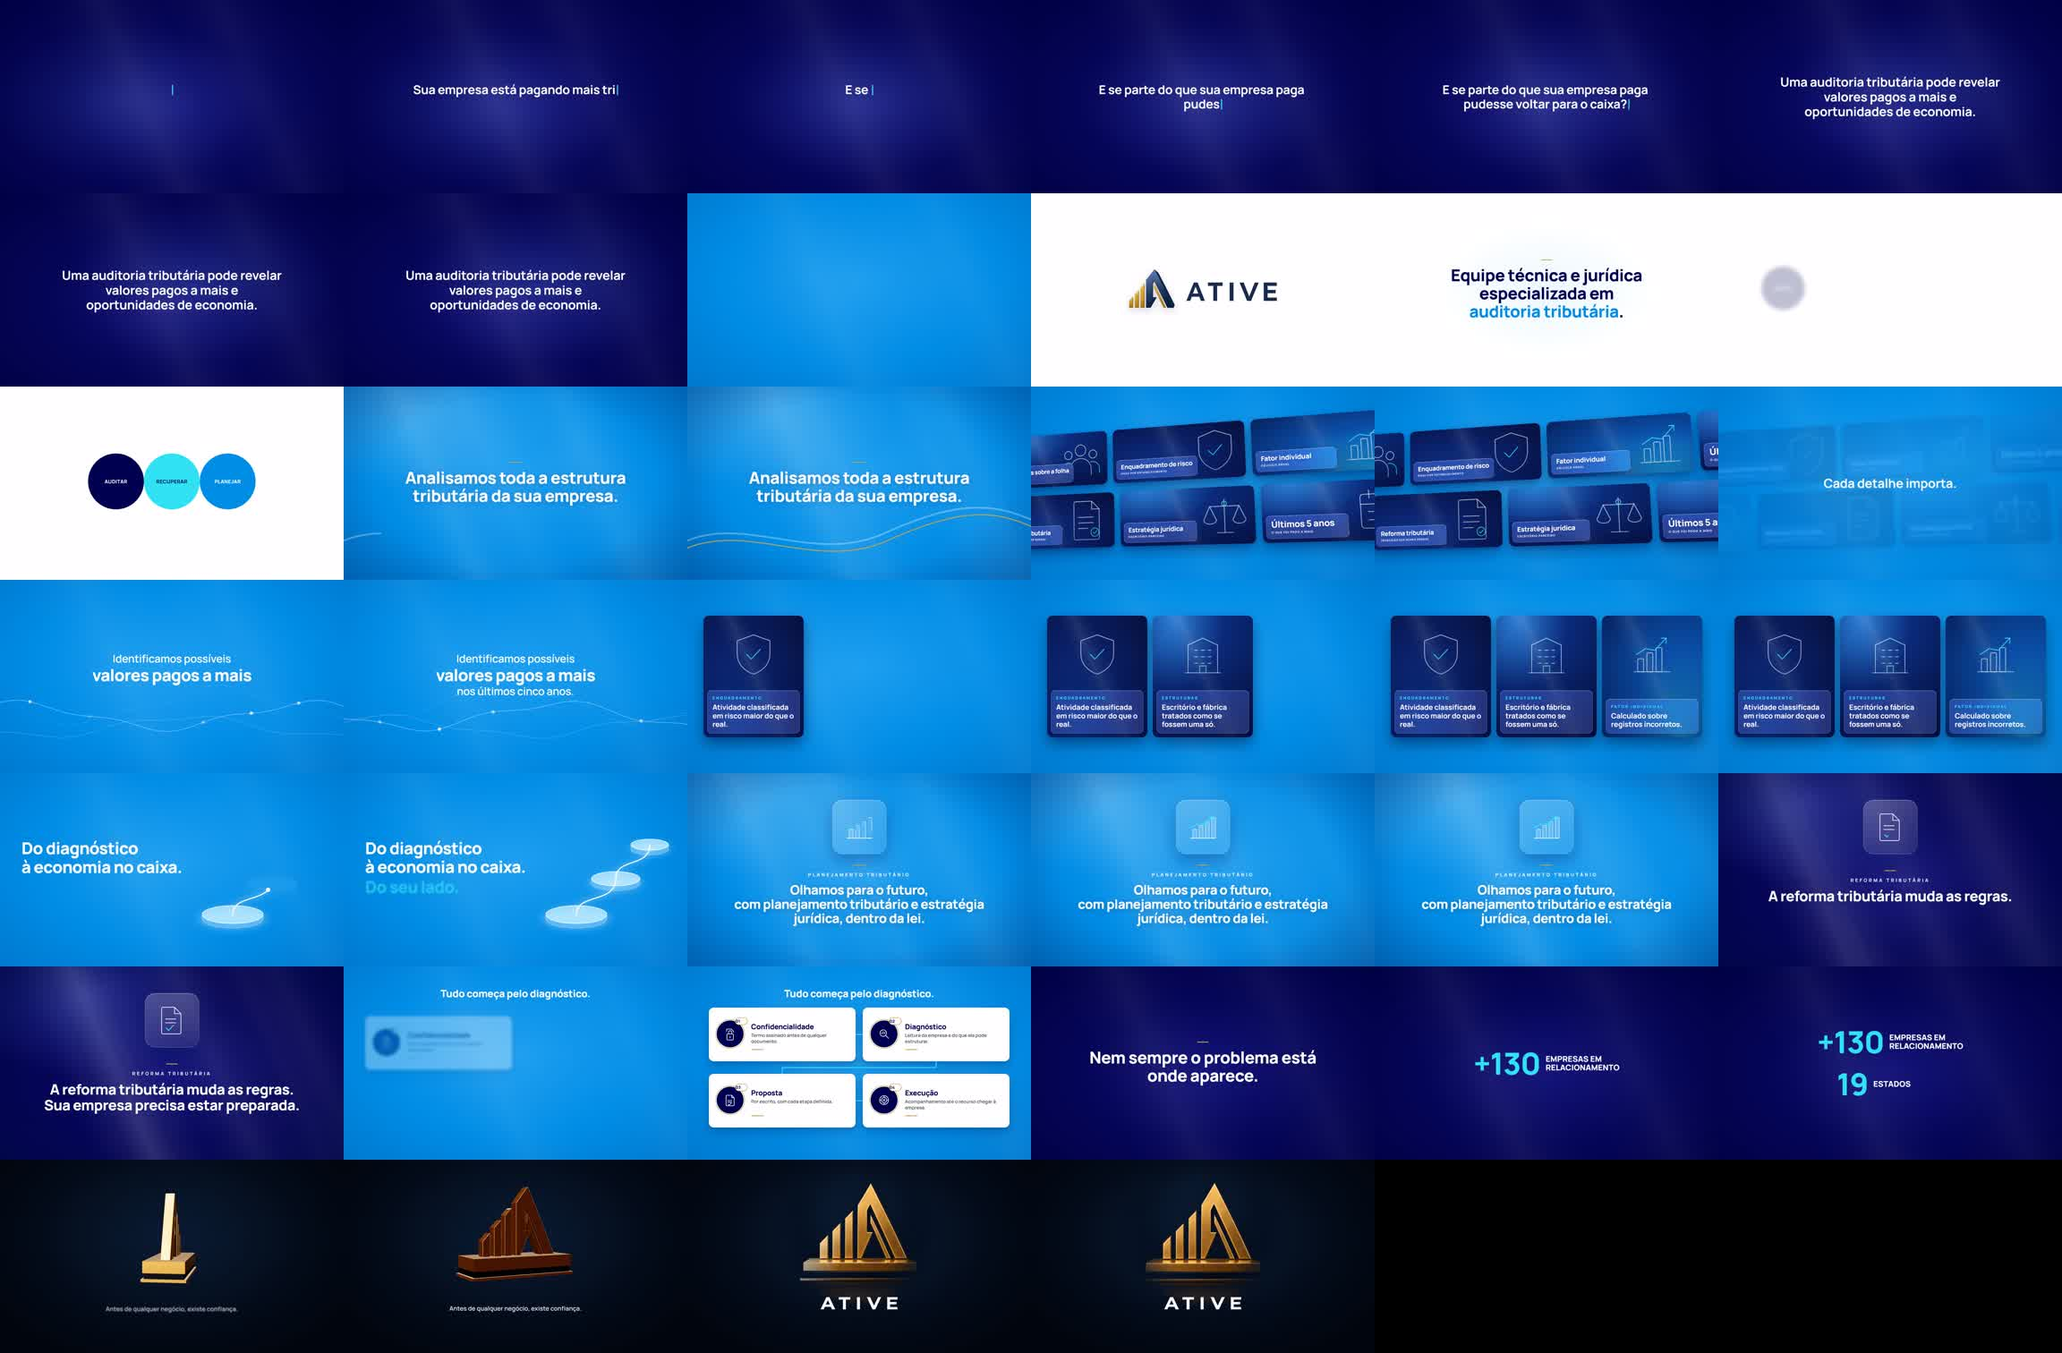
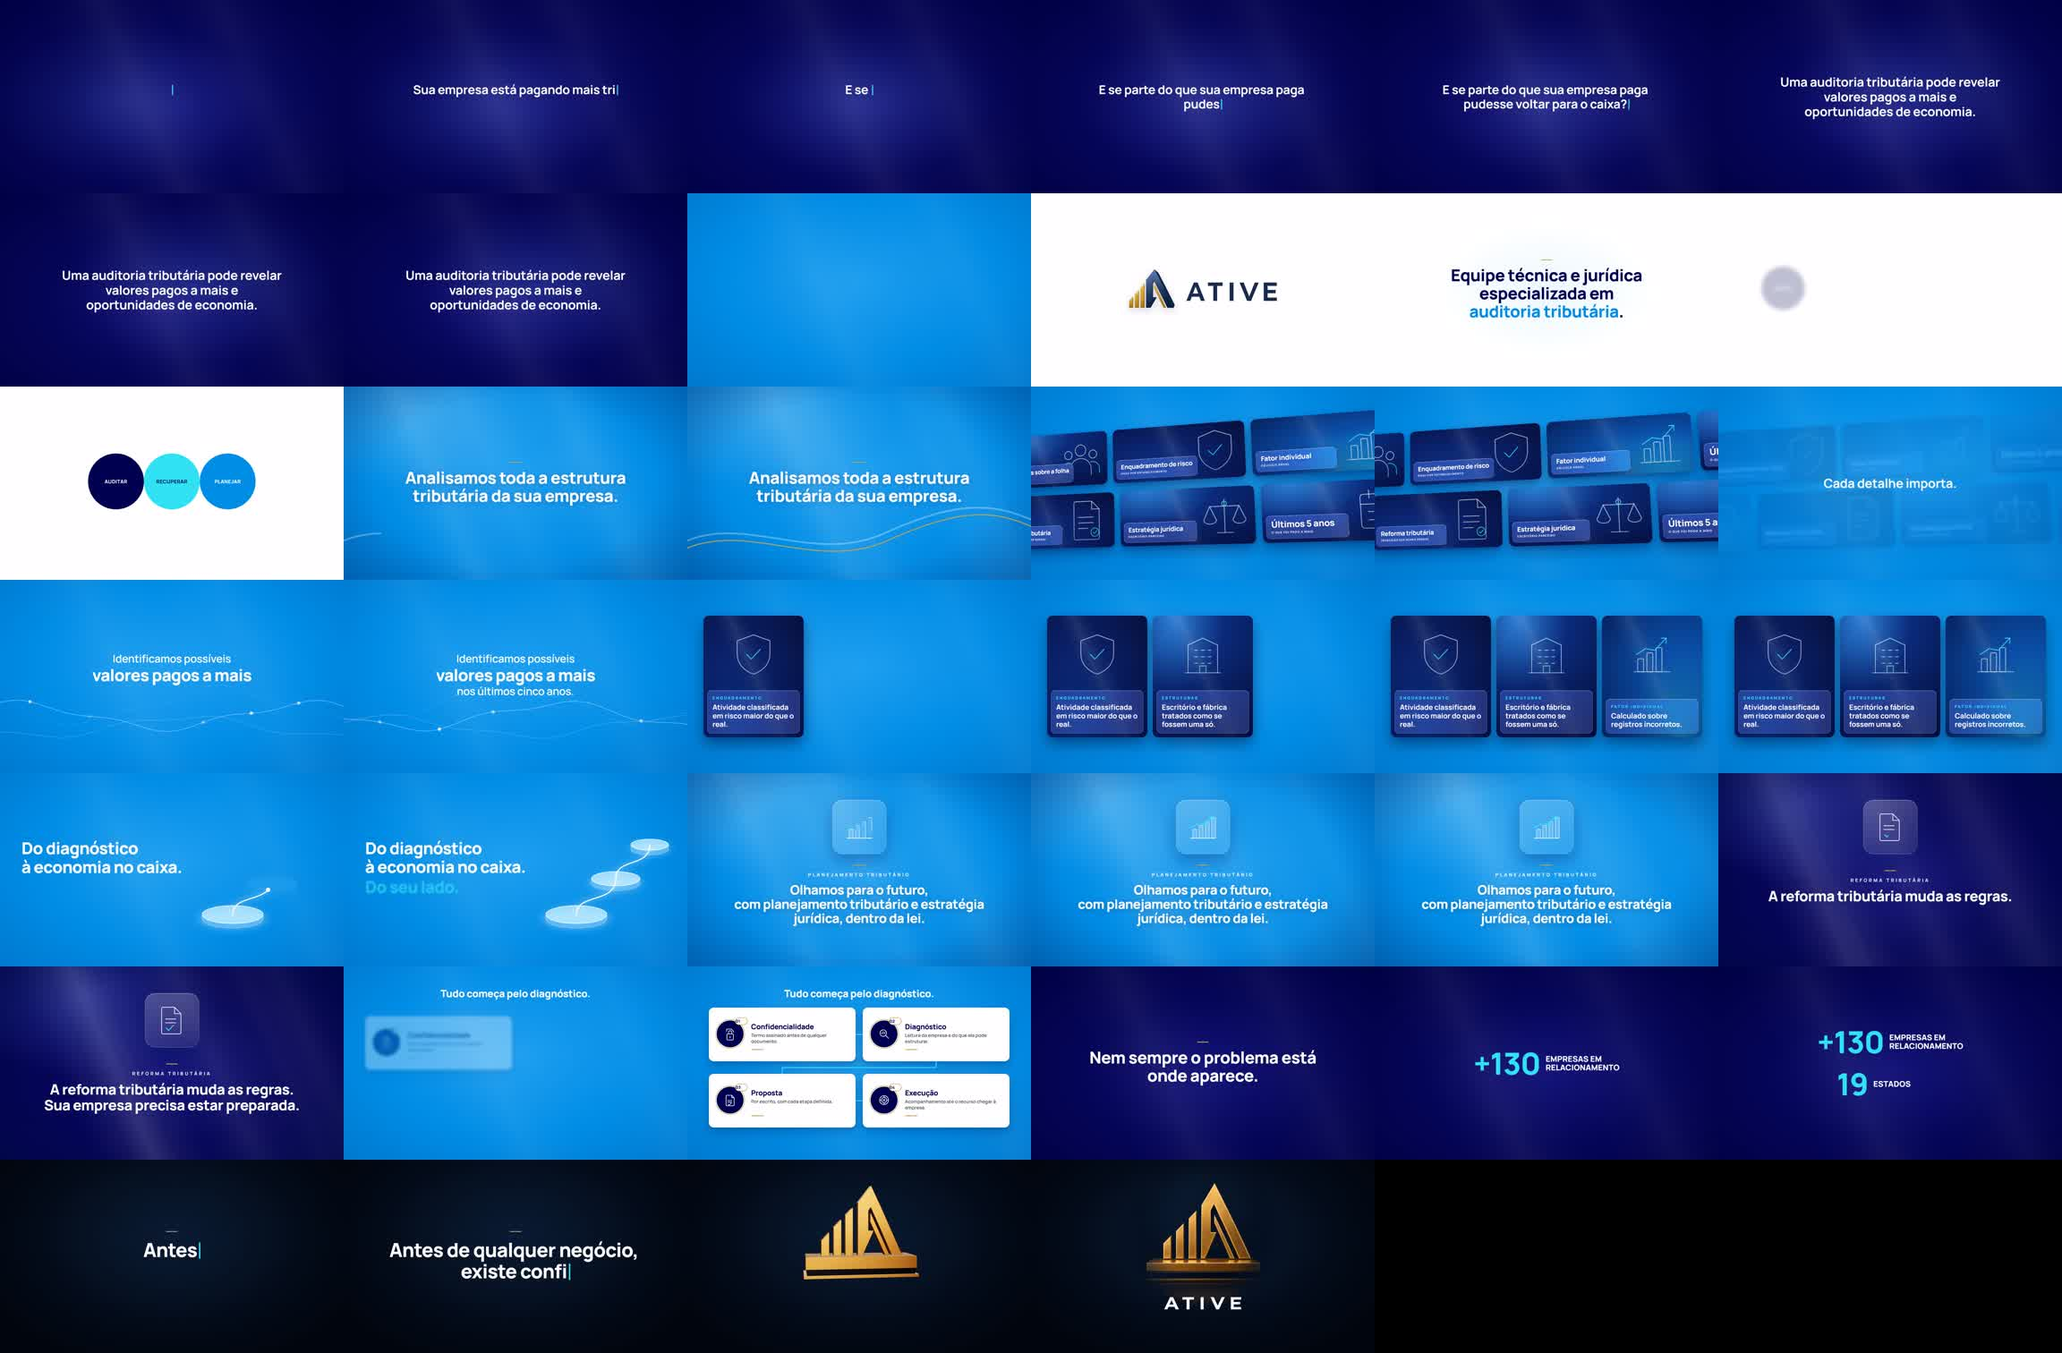
Vídeos v7c: frase de confiança vira tela digitada antes do símbolo (Tributário renderizado; Estruturação aguarda OK)
Pedido do Jonas (04/10 ~01h15): a frase pequena sob o logo no fechamento ficou feia; trazer a frase digitada numa
tela própria, como a assinatura da Apresentação v12, atrasar a entrada do símbolo para a fala "Ative." e só então
o ATIVE embaixo da pirâmide. Um vídeo por vez.

- trib_v7.html e v10.html: tela #fim2 (fio dourado + frase em 108 px digitada com a voz, cursor ciano), fimReal(T)
  em tempo real com os tempos do encerramento da v12; #endT desligado; final segura 4,0 s (retime.py fim=4.0).
- Tributário: render parcial do encerramento em uma sessão, emenda no quadro 2163 (fundo puro), 1:20,57, −20,3 LUFS.
- Estruturação: página pronta (2.115 quadros); render do encerramento depois do OK no Tributário.
- Registro v7 atualizado com a mecânica e as medições.

Changed region(s): [[0.1875, 0.8704, 0.3125, 0.9636], [0.375, 0.8704, 0.4375, 0.9636], [0.0625, 0.8704, 0.0938, 0.9636]]

diff --git a/videos/estruturacao-de-capital/fonte/video/v10.html b/videos/estruturacao-de-capital/fonte/video/v10.html
@@ -38,6 +38,9 @@ html,body{width:1920px;height:1080px;overflow:hidden;background:#000050;font-fam
 .num .lab{font-weight:800;font-size:44px;color:#fff;line-height:1.1;letter-spacing:.5px}
 /* v7 (03/10 noite): padrão da Apresentação v12 — sem zoom em texto, placa de vidro em PNG, feixes sem filter, parede e painéis desenhados, perguntas digitadas */
 .fio{width:64px;height:5px;border-radius:3px;background:#C9A24B;transform-origin:50% 50%}
+#fim2{z-index:60}
+.fimQ{color:#fff;font-weight:800;font-size:108px;line-height:1.1;letter-spacing:-2.2px;white-space:nowrap;text-align:center}
+.fimQ .cur{display:inline-block;width:8px;height:92px;margin-left:10px;vertical-align:-10px;border-radius:3px;background:#2FE1F2;opacity:0}
 .h2{font-weight:800;font-size:80px;line-height:1.1;letter-spacing:-1.5px;color:#fff;text-shadow:0 6px 40px rgba(0,20,80,.25);white-space:nowrap}
 .h3{font-weight:800;font-size:104px;line-height:1.1;letter-spacing:-1.5px;color:var(--navy);white-space:nowrap}
 .h3 b{font-weight:800;color:var(--blue)}
@@ -151,6 +154,7 @@ html,body{width:1920px;height:1080px;overflow:hidden;background:#000050;font-fam
 <img id="pfull" src="../assets/piramide_full.png" style="position:absolute;left:530px;top:-50px;width:860px;height:860px;opacity:0;-webkit-mask-image:radial-gradient(ellipse 50% 50% at 50% 50%,#000 62%,transparent 100%);mask-image:radial-gradient(ellipse 50% 50% at 50% 50%,#000 62%,transparent 100%)">
 <div id="shine" style="position:absolute;left:530px;top:-50px;width:860px;height:860px;opacity:0;mix-blend-mode:screen;-webkit-mask-image:url(../assets/piramide_mask.png);mask-image:url(../assets/piramide_mask.png);-webkit-mask-size:100% 100%;mask-size:100% 100%;background:linear-gradient(112deg,rgba(255,236,190,0) 42%,rgba(255,240,205,.85) 50%,rgba(255,236,190,0) 58%);background-size:320% 100%"></div>
 <img id="wmEnd" class="el" src="../crops/wordmark_branco_limpo.png" style="height:78px">
+<div id="fim2" class="el" style="text-align:center"><div class="fio" style="margin:0 auto 40px"></div><div class="fimQ"><span id="fmL1"></span><span class="cur" id="fmC1"></span><br><span id="fmL2"></span><span class="cur" id="fmC2"></span></div></div>
 <div id="endT" class="el t" style="font-size:34px;font-weight:600;letter-spacing:.3px;color:rgba(255,255,255,.88)">Toda parceria começa com confiança.</div>
 <div id="legal" class="legal">Operações conduzidas pela rede de parceria da Ative e divulgadas com autorização. Não constitui oferta de crédito nem promessa de resultado.</div>
 
@@ -198,6 +202,22 @@ html,body{width:1920px;height:1080px;overflow:hidden;background:#000050;font-fam
   const k1=Math.min(k,L1.length),k2=Math.max(0,k-L1.length);$(q.id+'a').textContent=L1.slice(0,k1);$(q.id+'b').textContent=L2.slice(0,k2);
   const blink=(Math.floor(T/.4)%2?0:1);
   $(q.id+'c1').style.opacity=k<L1.length?(T<q.a?blink:1):0;$(q.id+'c2').style.opacity=k>=L1.length?(k<n?1:blink):0;});}
+ // v7c (04/10, pedido do Jonas): a frase de confiança vira tela própria, digitada com a voz; no "Ative." o símbolo gira e o
+ // ATIVE entra embaixo da pirâmide, com os tempos do encerramento da Apresentação v12. A frase pequena sob o logo sai.
+ const FL1='Toda parceria',FL2='começa com confiança.',FA=R(16),FB=R(17),FIM=R(18)+4.0;
+ function fimReal(T){const e=$('fim2'),a0=FA+.1,ta=FA+.25,cut=EIO(P(T,FB-.3,FB));
+  if(T<a0||cut>=1){e.style.opacity=0;}else{const ent=E(P(T,a0,a0+.35));e.style.opacity=ent*(1-cut);e.style.filter=`blur(${((1-ent)*10+cut*10).toFixed(2)}px)`;e.style.transform='translate(-50%,-50%)';
+   const n=FL1.length+FL2.length,sp=Math.min(.06,(FB-.5-ta)/n),tx=ta+n*sp,k=T<ta?0:Math.min(n,Math.floor(n*P(T,ta,tx)+1e-6)),k1=Math.min(k,FL1.length),k2=Math.max(0,k-FL1.length);
+   $('fmL1').textContent=FL1.slice(0,k1);$('fmL2').textContent=FL2.slice(0,k2);
+   const blink=k<n?1:(Math.floor((T-tx)/.45)%2?0:1);$('fmC1').style.opacity=k<FL1.length?1:0;$('fmC2').style.opacity=k>=FL1.length?blink:0;}
+  const P0=FB-.2,gl=$('gl'),pf=$('pfull'),sh=$('shine'),wm=$('wmEnd');$('endT').style.opacity=0;
+  if(T<P0){gl.style.opacity=0;pf.style.opacity=0;sh.style.opacity=0;wm.style.opacity=0;return;}
+  const sp=E(P(T,P0,P0+1.8)),fin=E(P(T,P0,P0+.45)),xf=EIO(P(T,P0+1.6,P0+2.15)),push=1+.05*P(T,P0+1.6,FIM);
+  gl.style.opacity=fin*(1-xf);gl.style.filter=`blur(${(1-fin)*12}px)`;
+  pf.style.opacity=xf;pf.style.transform=`scale(${push})`;pf.style.transformOrigin='50% 45%';
+  const s1=(T>P0+2.1&&T<P0+3.05)?Math.sin(Math.PI*P(T,P0+2.1,P0+3.05))*.9:0;sh.style.opacity=s1;sh.style.backgroundPosition=`${100-100*P(T,P0+2.1,P0+3.05)}% 0`;sh.style.transform=`scale(${push})`;sh.style.transformOrigin='50% 45%';
+  if(T<P0+2.3)window.render3d&&window.render3d((1-sp)*3*Math.PI*2,(.62+.38*sp),T);
+  const w=E(P(T,P0+2.15,P0+3.15));wm.style.opacity=w;wm.style.filter=`blur(${(1-w)*16}px)`;wm.style.transform=`translate(-50%,-50%) translateY(${262+(1-w)*24}px)`;}
  window.renderReal=function(T){
   perguntas(T);
   // 7 "Porque as possibilidades vão além do seu banco." e 9 "O caminho começa pela sua empresa." (azul, prancha P5): luz + feixes + vinheta; a fita só na primeira
@@ -207,6 +227,7 @@ html,body{width:1920px;height:1080px;overflow:hidden;background:#000050;font-fam
   // cenas da v6 (tempos calculados com D=0,3): quatro passos (fala 6) e degraus (fala 11)
   V.passos('wA',T-DS,20.0,26.65,[20.4,21.3,22.6,24.1]);
   V.degraus('wB',T-DS,41.85,46.6,[42.1,42.7,45.0]);
+  fimReal(T);
  };})();
 </script>
 </div>

diff --git a/videos/tributario/trib_v7.html b/videos/tributario/trib_v7.html
@@ -46,6 +46,9 @@ html,body{width:1920px;height:1080px;overflow:hidden;background:#000050;font-fam
 .tp .d{margin-top:12px;font-weight:700;font-size:40px;line-height:1.18;color:#fff}
 /* v7 (03/10 noite): padrão da Apresentação v12 — sem zoom em texto, placa de vidro em PNG, feixes sem filter, parede e painéis desenhados, perguntas digitadas */
 .fio{width:64px;height:5px;border-radius:3px;background:#C9A24B;transform-origin:50% 50%}
+#fim2{z-index:60}
+.fimQ{color:#fff;font-weight:800;font-size:108px;line-height:1.1;letter-spacing:-2.2px;white-space:nowrap;text-align:center}
+.fimQ .cur{display:inline-block;width:8px;height:92px;margin-left:10px;vertical-align:-10px;border-radius:3px;background:#2FE1F2;opacity:0}
 .h2{font-weight:800;font-size:80px;line-height:1.1;letter-spacing:-1.5px;color:#fff;text-shadow:0 6px 40px rgba(0,20,80,.25);white-space:nowrap}
 .h3{font-weight:800;font-size:104px;line-height:1.1;letter-spacing:-1.5px;color:var(--navy);white-space:nowrap}
 .h3 b{font-weight:800;color:var(--blue)}
@@ -133,6 +136,7 @@ html,body{width:1920px;height:1080px;overflow:hidden;background:#000050;font-fam
 <img id="pfull" src="../assets/piramide_full.png" style="position:absolute;left:530px;top:-50px;width:860px;height:860px;opacity:0;-webkit-mask-image:radial-gradient(ellipse 50% 50% at 50% 50%,#000 62%,transparent 100%);mask-image:radial-gradient(ellipse 50% 50% at 50% 50%,#000 62%,transparent 100%)">
 <div id="shine" style="position:absolute;left:530px;top:-50px;width:860px;height:860px;opacity:0;mix-blend-mode:screen;-webkit-mask-image:url(../assets/piramide_mask.png);mask-image:url(../assets/piramide_mask.png);-webkit-mask-size:100% 100%;mask-size:100% 100%;background:linear-gradient(112deg,rgba(255,236,190,0) 42%,rgba(255,240,205,.85) 50%,rgba(255,236,190,0) 58%);background-size:320% 100%"></div>
 <img id="wmEnd" class="el" src="../crops/wordmark_branco_limpo.png" style="height:78px">
+<div id="fim2" class="el" style="text-align:center"><div class="fio" style="margin:0 auto 40px"></div><div class="fimQ"><span id="fmL1"></span><span class="cur" id="fmC1"></span><br><span id="fmL2"></span><span class="cur" id="fmC2"></span></div></div>
 <div id="endT" class="el t" style="font-size:34px;font-weight:600;letter-spacing:.3px;color:rgba(255,255,255,.88)">Antes de qualquer negócio, existe confiança.</div>
 
 <!-- v6 (03/10): cenas reconstruídas em HTML/SVG · v7 (03/10 noite): padrão da Apresentação v12 -->
@@ -181,6 +185,22 @@ html,body{width:1920px;height:1080px;overflow:hidden;background:#000050;font-fam
   const k1=Math.min(k,L1.length),k2=Math.max(0,k-L1.length);$(q.id+'a').textContent=L1.slice(0,k1);$(q.id+'b').textContent=L2.slice(0,k2);
   const blink=(Math.floor(T/.4)%2?0:1);
   $(q.id+'c1').style.opacity=k<L1.length?(T<q.a?blink:1):0;$(q.id+'c2').style.opacity=k>=L1.length?(k<n?1:blink):0;});}
+ // v7c (04/10, pedido do Jonas): a frase de confiança vira tela própria, digitada com a voz; no "Ative." o símbolo gira e o
+ // ATIVE entra embaixo da pirâmide, com os tempos do encerramento da Apresentação v12. A frase pequena sob o logo sai.
+ const FL1='Antes de qualquer negócio,',FL2='existe confiança.',FA=R(18),FB=R(19),FIM=R(20)+4.0;
+ function fimReal(T){const e=$('fim2'),a0=FA+.1,ta=FA+.25,cut=EIO(P(T,FB-.3,FB));
+  if(T<a0||cut>=1){e.style.opacity=0;}else{const ent=E(P(T,a0,a0+.35));e.style.opacity=ent*(1-cut);e.style.filter=`blur(${((1-ent)*10+cut*10).toFixed(2)}px)`;e.style.transform='translate(-50%,-50%)';
+   const n=FL1.length+FL2.length,sp=Math.min(.06,(FB-.5-ta)/n),tx=ta+n*sp,k=T<ta?0:Math.min(n,Math.floor(n*P(T,ta,tx)+1e-6)),k1=Math.min(k,FL1.length),k2=Math.max(0,k-FL1.length);
+   $('fmL1').textContent=FL1.slice(0,k1);$('fmL2').textContent=FL2.slice(0,k2);
+   const blink=k<n?1:(Math.floor((T-tx)/.45)%2?0:1);$('fmC1').style.opacity=k<FL1.length?1:0;$('fmC2').style.opacity=k>=FL1.length?blink:0;}
+  const P0=FB-.2,gl=$('gl'),pf=$('pfull'),sh=$('shine'),wm=$('wmEnd');$('endT').style.opacity=0;
+  if(T<P0){gl.style.opacity=0;pf.style.opacity=0;sh.style.opacity=0;wm.style.opacity=0;return;}
+  const sp=E(P(T,P0,P0+1.8)),fin=E(P(T,P0,P0+.45)),xf=EIO(P(T,P0+1.6,P0+2.15)),push=1+.05*P(T,P0+1.6,FIM);
+  gl.style.opacity=fin*(1-xf);gl.style.filter=`blur(${(1-fin)*12}px)`;
+  pf.style.opacity=xf;pf.style.transform=`scale(${push})`;pf.style.transformOrigin='50% 45%';
+  const s1=(T>P0+2.1&&T<P0+3.05)?Math.sin(Math.PI*P(T,P0+2.1,P0+3.05))*.9:0;sh.style.opacity=s1;sh.style.backgroundPosition=`${100-100*P(T,P0+2.1,P0+3.05)}% 0`;sh.style.transform=`scale(${push})`;sh.style.transformOrigin='50% 45%';
+  if(T<P0+2.3)window.render3d&&window.render3d((1-sp)*3*Math.PI*2,(.62+.38*sp),T);
+  const w=E(P(T,P0+2.15,P0+3.15));wm.style.opacity=w;wm.style.filter=`blur(${(1-w)*16}px)`;wm.style.transform=`translate(-50%,-50%) translateY(${262+(1-w)*24}px)`;}
  window.renderReal=function(T){
   perguntas(T);
   // 7 "Analisamos toda a estrutura tributária da sua empresa." (azul, prancha P5): luz + feixes + vinheta + fita
@@ -191,6 +211,7 @@ html,body{width:1920px;height:1080px;overflow:hidden;background:#000050;font-fam
   V.ondas('wC',T-DS,34.1,38.8,[34.3,35.0,36.4]);
   V.degraus('wB',T-DS,46.6,51.05,[46.8,47.4,49.6]);
   V.passos('wA',T-DS,61.15,64.45,[61.7,62.15,62.6,63.05]);
+  fimReal(T);
  };})();
 </script>
 </div>

diff --git a/videos/narracao/retime.py b/videos/narracao/retime.py
@@ -126,8 +126,9 @@ CORRIDA['1_Estruturacao_v6'] = CORRIDA['1_Estruturacao_v4']  # v6 = v4 + cenas r
 CORRIDA['3_Tributario_v6'] = CORRIDA['3_Tributario_v4']
 # v7 (03/10 noite): padrão da Apresentação v12 — mesma voz e mesmos trechos da v4; a voz entra em 1,5 s (música e cursor
 # antes da primeira pergunta), o final segura 2,5 s e a música ganha a mistura medida da Apresentação (+4 dB, duck leve).
-CORRIDA['1_Estruturacao_v7'] = dict(CORRIDA['1_Estruturacao_v4'], D=1.5, fim=2.5, abre=(9.0, 0.8, 1.5), mus_db=4, duck=(0.05, 2.5))
-CORRIDA['3_Tributario_v7'] = dict(CORRIDA['3_Tributario_v4'], D=1.5, fim=2.5, abre=(9.0, 0.8, 1.5), mus_db=4, duck=(0.05, 2.5))
+# v7c (04/10): o final passa a segurar 4,0 s — a frase de confiança vira tela digitada antes do símbolo, e o ATIVE só entra depois do giro.
+CORRIDA['1_Estruturacao_v7'] = dict(CORRIDA['1_Estruturacao_v4'], D=1.5, fim=4.0, abre=(9.0, 0.8, 1.5), mus_db=4, duck=(0.05, 2.5))
+CORRIDA['3_Tributario_v7'] = dict(CORRIDA['3_Tributario_v4'], D=1.5, fim=4.0, abre=(9.0, 0.8, 1.5), mus_db=4, duck=(0.05, 2.5))
 CORRIDA['2_Apresentacao_v6'] = CORRIDA['2_Apresentacao_v4']  # v5 = v4 + imagens de IA por cima
 # v7 (03/10 tarde): abertura de 6 s (a voz inteira entra em 4,6 s, sem corte), cena "Tudo começa pelo DIAGNÓSTICO"
 # até a fala 4, perguntas uma por tela. A página fica parada em t=0 (cenas novas vivem em renderReal) e corre 1:1

diff --git a/videos/REGISTRO_v7_estruturacao_tributario_2026-10-03.md b/videos/REGISTRO_v7_estruturacao_tributario_2026-10-03.md
@@ -85,6 +85,41 @@ de retorno do seno). Estruturação v7b: 1:09,00, 25,9 MB, −18,4 LUFS, os mesm
 Conferido no arquivo final: frase sob o símbolo e ATIVE embaixo da pirâmide nos dois, lado a lado com a v12. Observação para o Jonas: o aviso de advocacia existia por prudência com a OAB (a Ative não é
 escritório); saiu das telas a pedido dele; se quiser, pode ir para a descrição do vídeo.
 
+## Segunda revisão do Jonas (04/10 ~01h15) e v7c: a frase de confiança vira tela digitada
+Ele gostou dos dois ("ficou muito, muito bom"), mas achou feia a frase pequena embaixo do logo no fechamento e pediu:
+trazer a frase digitada numa tela própria, como a assinatura da v12, e só depois o símbolo girando com o ATIVE —
+"dar uma atrasada quando ela fala Ative"; um vídeo por vez.
+
+**Como ficou (nos dois, mesma mecânica, tempos da voz de cada um):**
+
+| Nº | Momento | O que acontece |
+|---|---|---|
+| 1 | 0,3 s antes da fala de confiança | navy dos números dissolve para o fundo escuro do encerramento (igual antes) |
+| 2 | fala "…confiança." (Trib 72,4–75,7 s; Estr 62,7–65,7 s) | tela própria: fio dourado + frase em 108 px digitada com a voz (0,06 s por letra, cursor ciano pisca ao terminar), duas linhas: "Antes de qualquer negócio, / existe confiança." · "Toda parceria / começa com confiança." |
+| 3 | 0,3 s antes de "Ative." | a frase sai em desfoque (corte da v12) |
+| 4 | "Ative." (Trib 75,7 s; Estr 65,7 s) | símbolo 3D entra girando (1,8 s), vira a imagem completa, brilho passa, e o ATIVE entra devagar embaixo da pirâmide (2,15–3,15 s depois do início do giro) — exatamente os tempos do encerramento da v12 |
+| 5 | fim | o final segura 4,0 s depois da voz (era 2,5) para o ATIVE respirar ~1,9 s parado; Trib 1:20,57 (2.417 quadros), Estr 1:10,50 (2.115) |
+
+A frase pequena sob o logo (`#endT`) foi desligada. Tudo em tempo real (`fimReal` em `renderReal`), por cima do bloco de
+encerramento da página, que continua cuidando só do fundo. `retime.py`: `fim=4.0` nas duas CORRIDA v7.
+
+**Tributário v7c (render 04/10 ~07h00):** render parcial só do encerramento, em uma sessão (quadros 2159–2417, sobra de
+15 antes do trecho forçado 2174–2417). Emenda no quadro 2163 (fundo puro: os números já em opacidade 0; de 2164 em diante
+a v7b já mostrava o símbolo entrando, por isso não coincide). 254 quadros substituídos (2163–2417).
+
+| Nº | Medida | Resultado |
+|---|---|---|
+| 1 | pares na emenda (YMAX) | 2160/2161: 15 · 2161/2162: 9 · 2162/2163: 5 — é o desvanecimento natural dos números, sem degrau |
+| 2 | quadros 2410→2416 | 32–57 por par, contínuo: é o push lento de 5 % da imagem do símbolo (igual à v12), não corte |
+| 3 | saída | 1:20,57 · 2.417 quadros · 29,4 MB (1080p) · 7,2 MB (720p) |
+| 4 | som | −20,3 LUFS, pico −1,2 dBFS (ganho −4,7 dB pelo pico); só música 0–1,5 s: −20,6 LUFS |
+| 5 | `freezedetect` | os mesmos 3 pontos de antes (19,6 s tela branca · 24,3 s círculos no branco · 68,8 s retorno do feixe) |
+| 6 | telas conferidas | digitação 73,3–75,3 s · desfoque de saída 75,6 s · símbolo girando 76,2–77,8 s · ATIVE sob a pirâmide até 80,5 s · sem frase pequena |
+
+**Estruturação v7c:** página `v10.html` e `narr_1_Estruturacao_v7.html` já regeneradas (2.115 quadros, final de 4,0 s);
+o render do encerramento (quadros 1884–2115, emenda prevista em 1872–1884, só fundo) aguarda o OK do Jonas no
+Tributário — ele pediu um vídeo por vez.
+
 ## Arquivos
 `estruturacao-de-capital/fonte/video/v10.html` (Estruturação v7) · `tributario/trib_v7.html` · `fonte/video/v7_comum.js` ·
 `fonte/video/narr_1_Estruturacao_v7.html` e `narr_3_Tributario_v7.html` (gerados pelo `retime.py pagina`) ·
